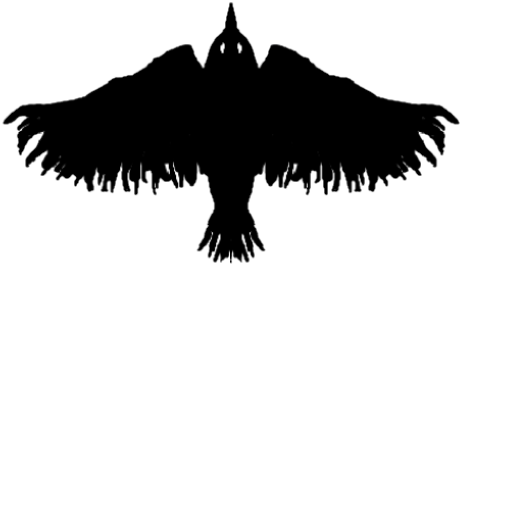
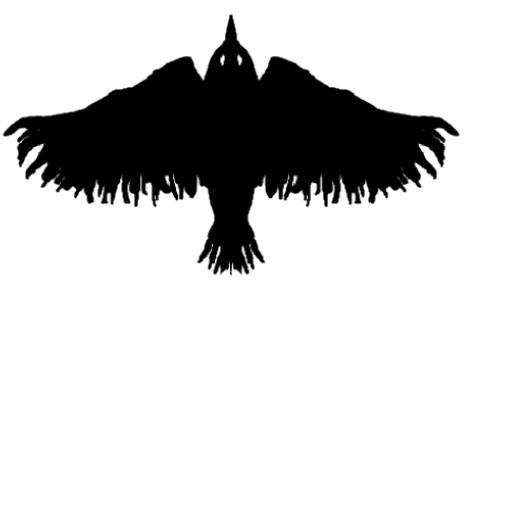
S 10 more movement (#18)
* more movement logic

* Hitbox and simple sprite

* Basic movement (some bugs)

Changed region(s): [[0.0, 0.0, 0.9062, 0.5312]]

diff --git a/core/src/com/mygdx/game/systems/PlayerVelocitySystem.java b/core/src/com/mygdx/game/systems/PlayerVelocitySystem.java
@@ -1,14 +1,53 @@
 package com.mygdx.game.systems;
 
+import com.badlogic.ashley.core.ComponentMapper;
+import com.badlogic.ashley.core.Engine;
+import com.badlogic.ashley.core.Entity;
+import com.badlogic.ashley.core.Family;
 import com.badlogic.ashley.systems.IntervalSystem;
+import com.badlogic.ashley.utils.ImmutableArray;
+import com.mygdx.game.components.BodyComponent;
+import com.mygdx.game.components.MovementComponent;
+import com.mygdx.game.components.PlayerVelocityStatComponent;
+import com.mygdx.game.utilities.Utilities;
 
 public class PlayerVelocitySystem extends IntervalSystem {
-   public PlayerVelocitySystem(float interval) {
-      super(interval);
-   }
+    private ImmutableArray<Entity> entities;
+    private ComponentMapper<MovementComponent> mm;
+    private ComponentMapper<BodyComponent> bm;
+    private ComponentMapper<PlayerVelocityStatComponent> pm;
 
-   @Override
-   protected void updateInterval() {
+    public PlayerVelocitySystem() {
+        super(Utilities.MAX_STEP_TIME);
+        mm = ComponentMapper.getFor(MovementComponent.class);
+        bm = ComponentMapper.getFor(BodyComponent.class);
+        pm = ComponentMapper.getFor(PlayerVelocityStatComponent.class);
+    }
 
-   }
+    @Override
+    public void addedToEngine(Engine engine){
+        entities=engine.getEntitiesFor(Family.all(BodyComponent.class,MovementComponent.class).get());
+    }
+
+    /**
+     * The processing logic of the system should be placed here.
+     */
+    @Override
+    protected void updateInterval() {
+        for(Entity entity: entities){
+            BodyComponent bC= bm.get(entity);
+            MovementComponent mC = mm.get(entity);
+            PlayerVelocityStatComponent pVC = pm.get(entity);
+            if(mC.moveLeft)
+                bC.body.setLinearVelocity(-pVC.movingSpeed, bC.body.getLinearVelocity().y);
+            if(mC.moveRight)
+                bC.body.setLinearVelocity( pVC.movingSpeed, bC.body.getLinearVelocity().y);
+            if(mC.moveUp)
+                bC.body.setLinearVelocity(bC.body.getLinearVelocity().x,  pVC.movingSpeed);
+            if(mC.moveDown)
+                bC.body.setLinearVelocity(bC.body.getLinearVelocity().x, -pVC.movingSpeed);
+            if (!mC.moveLeft && !mC.moveRight && !mC.moveUp && !mC.moveDown)
+               bC.body.setLinearVelocity(0, 0);
+        }
+    }
 }

diff --git a/core/src/com/mygdx/game/entities/Factory.java b/core/src/com/mygdx/game/entities/Factory.java
@@ -15,6 +15,10 @@ import com.badlogic.gdx.physics.box2d.FixtureDef;
 import com.badlogic.gdx.physics.box2d.World;
 import com.mygdx.game.components.*;
 import com.mygdx.game.systems.*;
+import com.mygdx.game.systems.CollisionCallbackSystem;
+import com.mygdx.game.systems.PhysicsDebugSystem;
+import com.mygdx.game.systems.PhysicsSystem;
+import com.mygdx.game.systems.RenderingSystem;
 import com.mygdx.game.utilities.Utilities;
 
 public class Factory {
@@ -140,11 +144,14 @@ public class Factory {
       entity.add(engine.createComponent(TransformComponent.class));
       entity.add(engine.createComponent(BodyComponent.class));
       entity.add(engine.createComponent(TextureComponent.class));
-      entity.getComponent(TextureComponent.class).textureRegion = createTexture("GameScreen/Player.atlas", "Player_0", 0);
-      entity.getComponent(BodyComponent.class).body = createBody("Player", 10);
-      entity.getComponent(TransformComponent.class).scale.x = 1;
-      entity.getComponent(TransformComponent.class).scale.y = 0.5f;
+      entity.add(engine.createComponent(IsPlayerComponent.class));
 
+      entity.getComponent(TextureComponent.class).textureRegion = createTexture("GameScreen/Player.atlas", "Player_1", 0);
+      entity.getComponent(BodyComponent.class).body = createBody("Player_1", 1);
+      entity.getComponent(TransformComponent.class).scale.x = 1f;
+      entity.getComponent(TransformComponent.class).scale.y = 1f;
+      entity.add(engine.createComponent(CollisionCallbackComponent.class));
+      entity.getComponent(BodyComponent.class).body.setUserData(entity);
       return entity;
    }
 
@@ -173,6 +180,8 @@ public class Factory {
       engine.addSystem(new RenderingSystem(spriteBatch, camera));
       engine.addSystem(new PhysicsSystem(world));
       engine.addSystem(new PhysicsDebugSystem(world, camera));
+      engine.addSystem(new PlayerControlSystem());
+      engine.addSystem(new PlayerVelocitySystem());
       new CollisionCallbackSystem(world);
    }
 

diff --git a/core/src/com/mygdx/game/systems/PlayerControlSystem.java b/core/src/com/mygdx/game/systems/PlayerControlSystem.java
@@ -9,14 +9,15 @@ import com.badlogic.ashley.utils.ImmutableArray;
 import com.badlogic.gdx.Gdx;
 import com.badlogic.gdx.Input;
 import com.mygdx.game.components.MovementComponent;
+import com.mygdx.game.utilities.Utilities;
 
 public class PlayerControlSystem extends IntervalSystem {
    ImmutableArray<Entity> entities;
    private ComponentMapper<MovementComponent> mc;
 
 
-   public PlayerControlSystem(float interval) {
-      super(interval);
+   public PlayerControlSystem() {
+      super(Utilities.MAX_STEP_TIME);
       mc = ComponentMapper.getFor(MovementComponent.class);
    }
 
@@ -29,15 +30,18 @@ public class PlayerControlSystem extends IntervalSystem {
    protected void updateInterval() {
       for (Entity entity : entities) {
          MovementComponent movementComponent = mc.get(entity);
-         if (Gdx.input.isKeyPressed(Input.Keys.LEFT)) {
+         if (Gdx.input.isKeyPressed(Input.Keys.LEFT))
             movementComponent.moveLeft = true;
-         } else if (Gdx.input.isKeyPressed(Input.Keys.RIGHT)) {
+         if (Gdx.input.isKeyPressed(Input.Keys.RIGHT))
             movementComponent.moveRight = true;
-         } else if (Gdx.input.isKeyPressed(Input.Keys.UP)) {
+         if (Gdx.input.isKeyPressed(Input.Keys.UP))
             movementComponent.moveUp = true;
-         } else if (Gdx.input.isKeyPressed(Input.Keys.DOWN)) {
+         if (Gdx.input.isKeyPressed(Input.Keys.DOWN))
             movementComponent.moveDown = true;
-         } else {
+         if (!Gdx.input.isKeyPressed(Input.Keys.LEFT) &&
+             !Gdx.input.isKeyPressed(Input.Keys.RIGHT) &&
+             !Gdx.input.isKeyPressed(Input.Keys.UP) &&
+             !Gdx.input.isKeyPressed(Input.Keys.DOWN)) {
             movementComponent.moveLeft = false;
             movementComponent.moveRight = false;
             movementComponent.moveUp = false;

diff --git a/core/src/com/mygdx/game/components/Scripts/PlayerCollisionCallback.java b/core/src/com/mygdx/game/components/Scripts/PlayerCollisionCallback.java
@@ -1,0 +1,11 @@
+package com.mygdx.game.components.Scripts;
+
+import com.badlogic.ashley.core.Entity;
+
+public class PlayerCollisionCallback implements CollisionCallback {
+
+   @Override
+   public void run(Entity thisObject, Entity otherObject) {
+
+   }
+}
